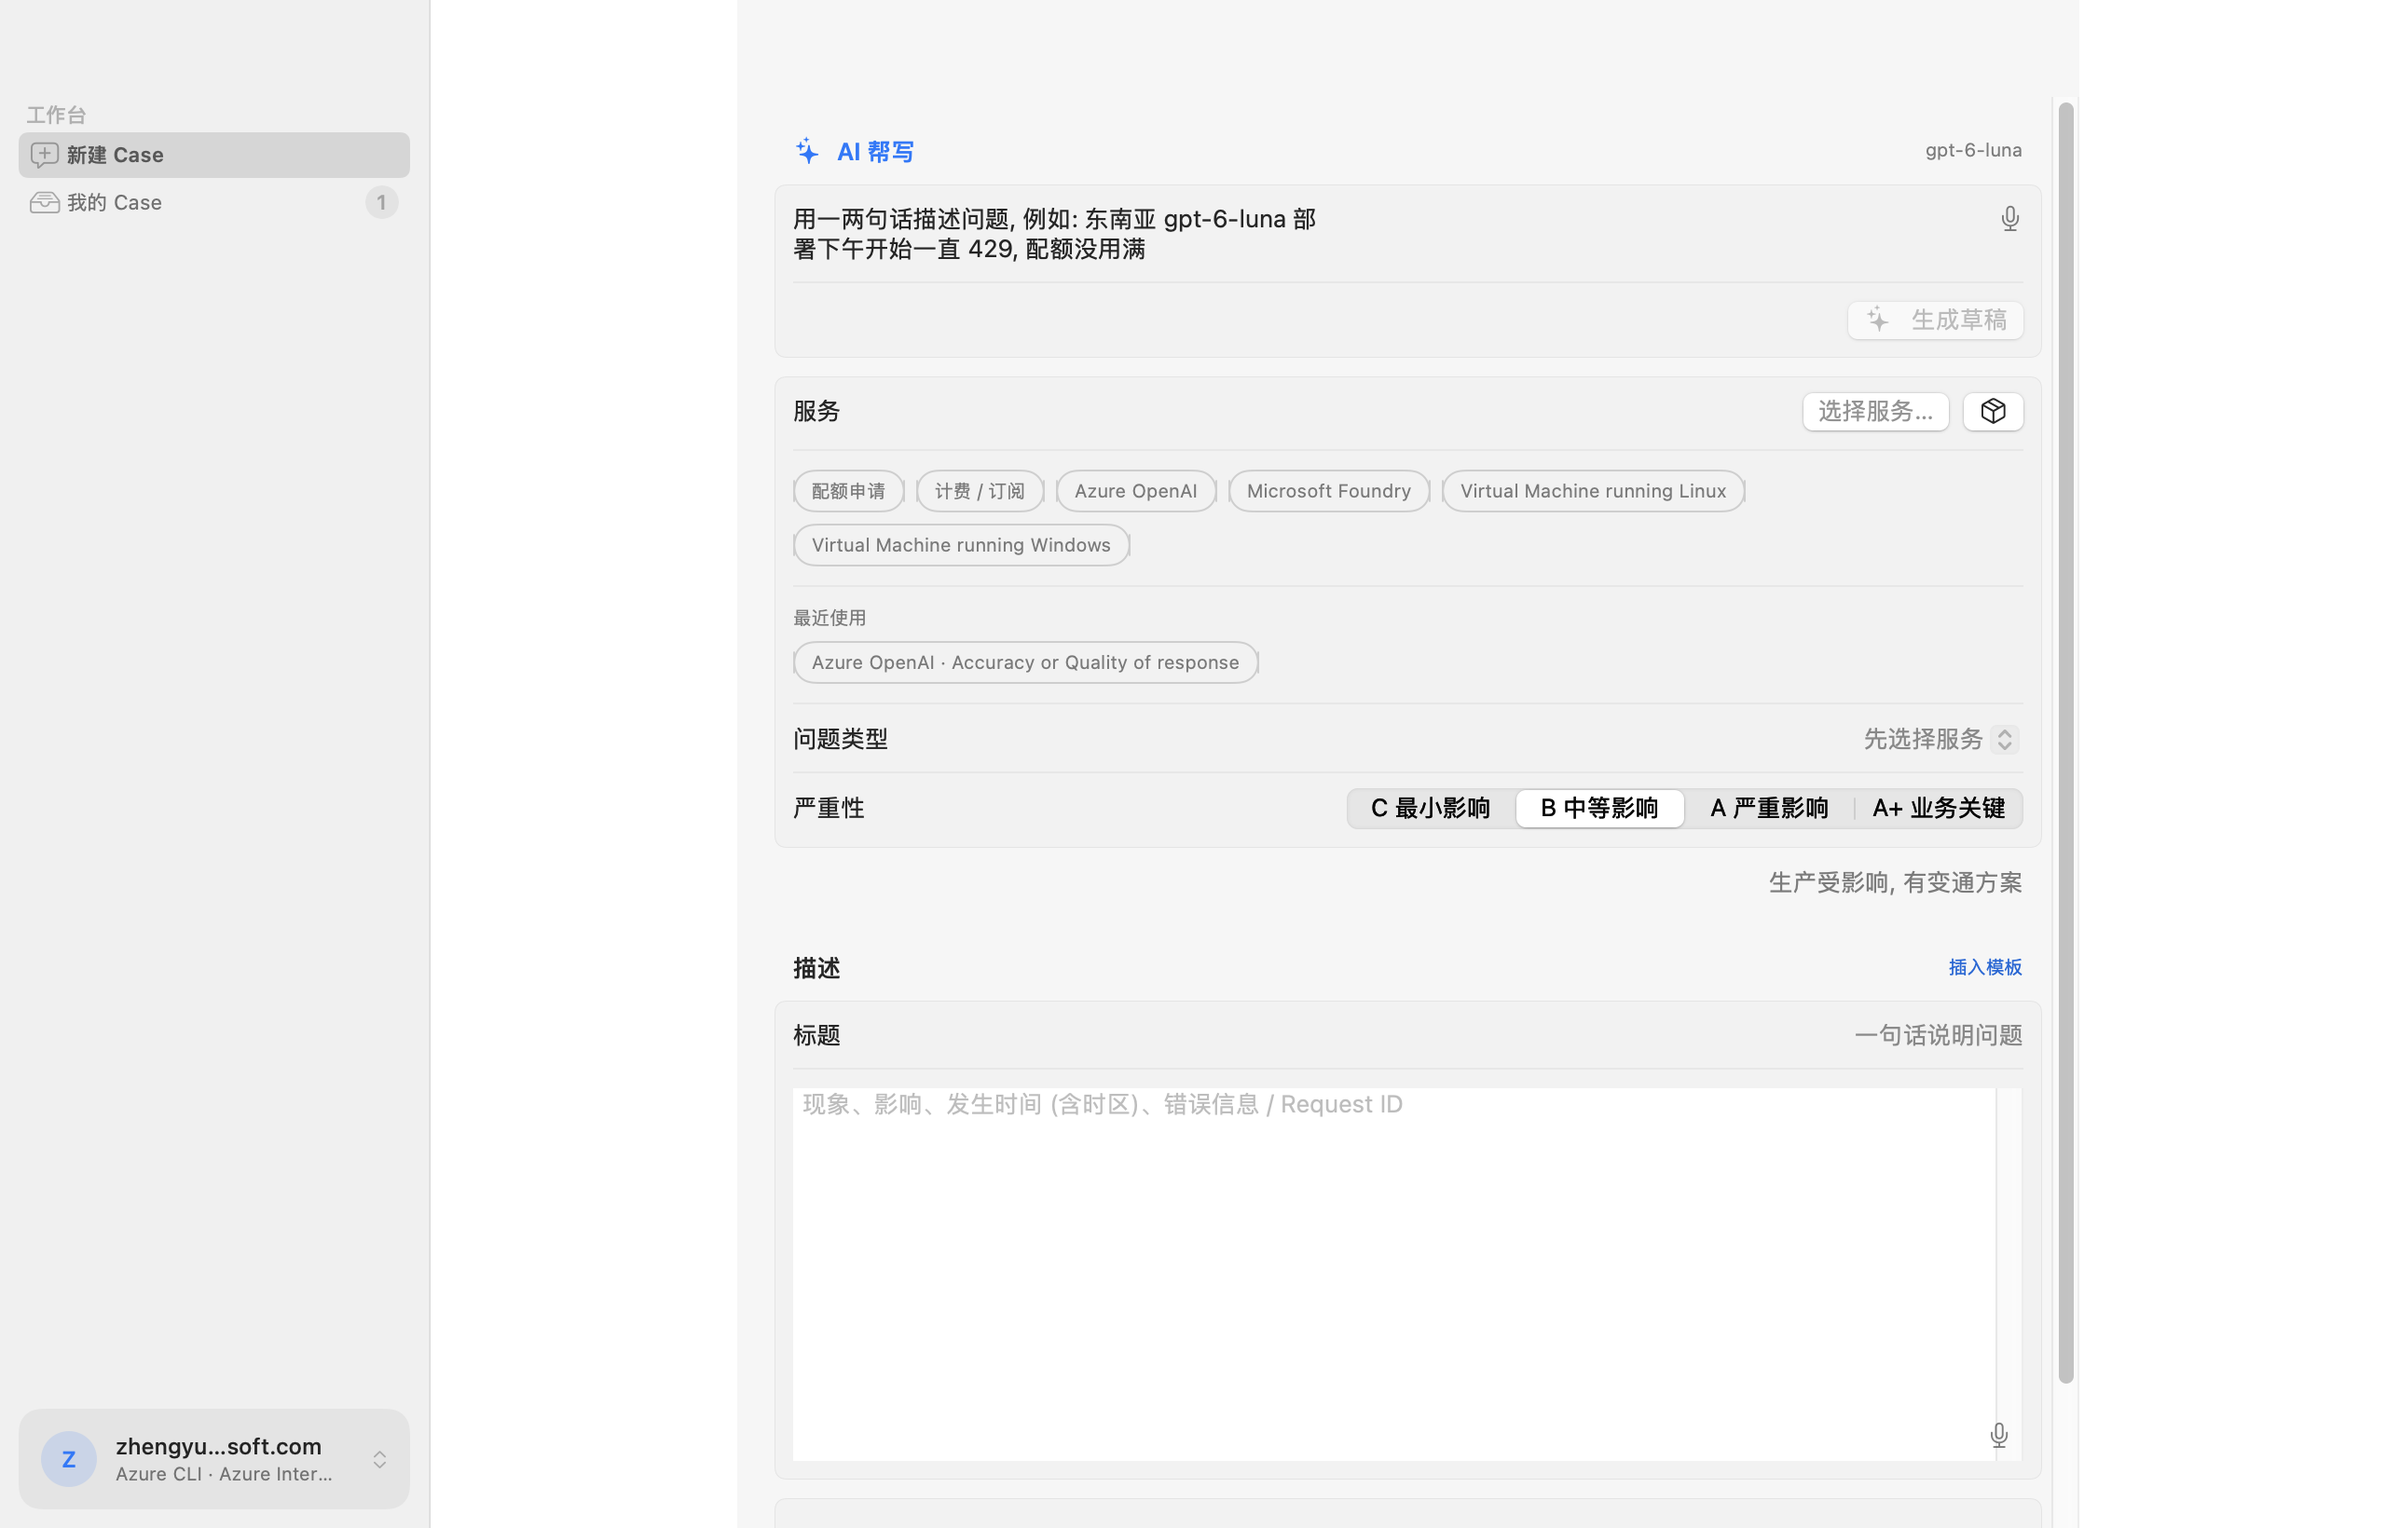
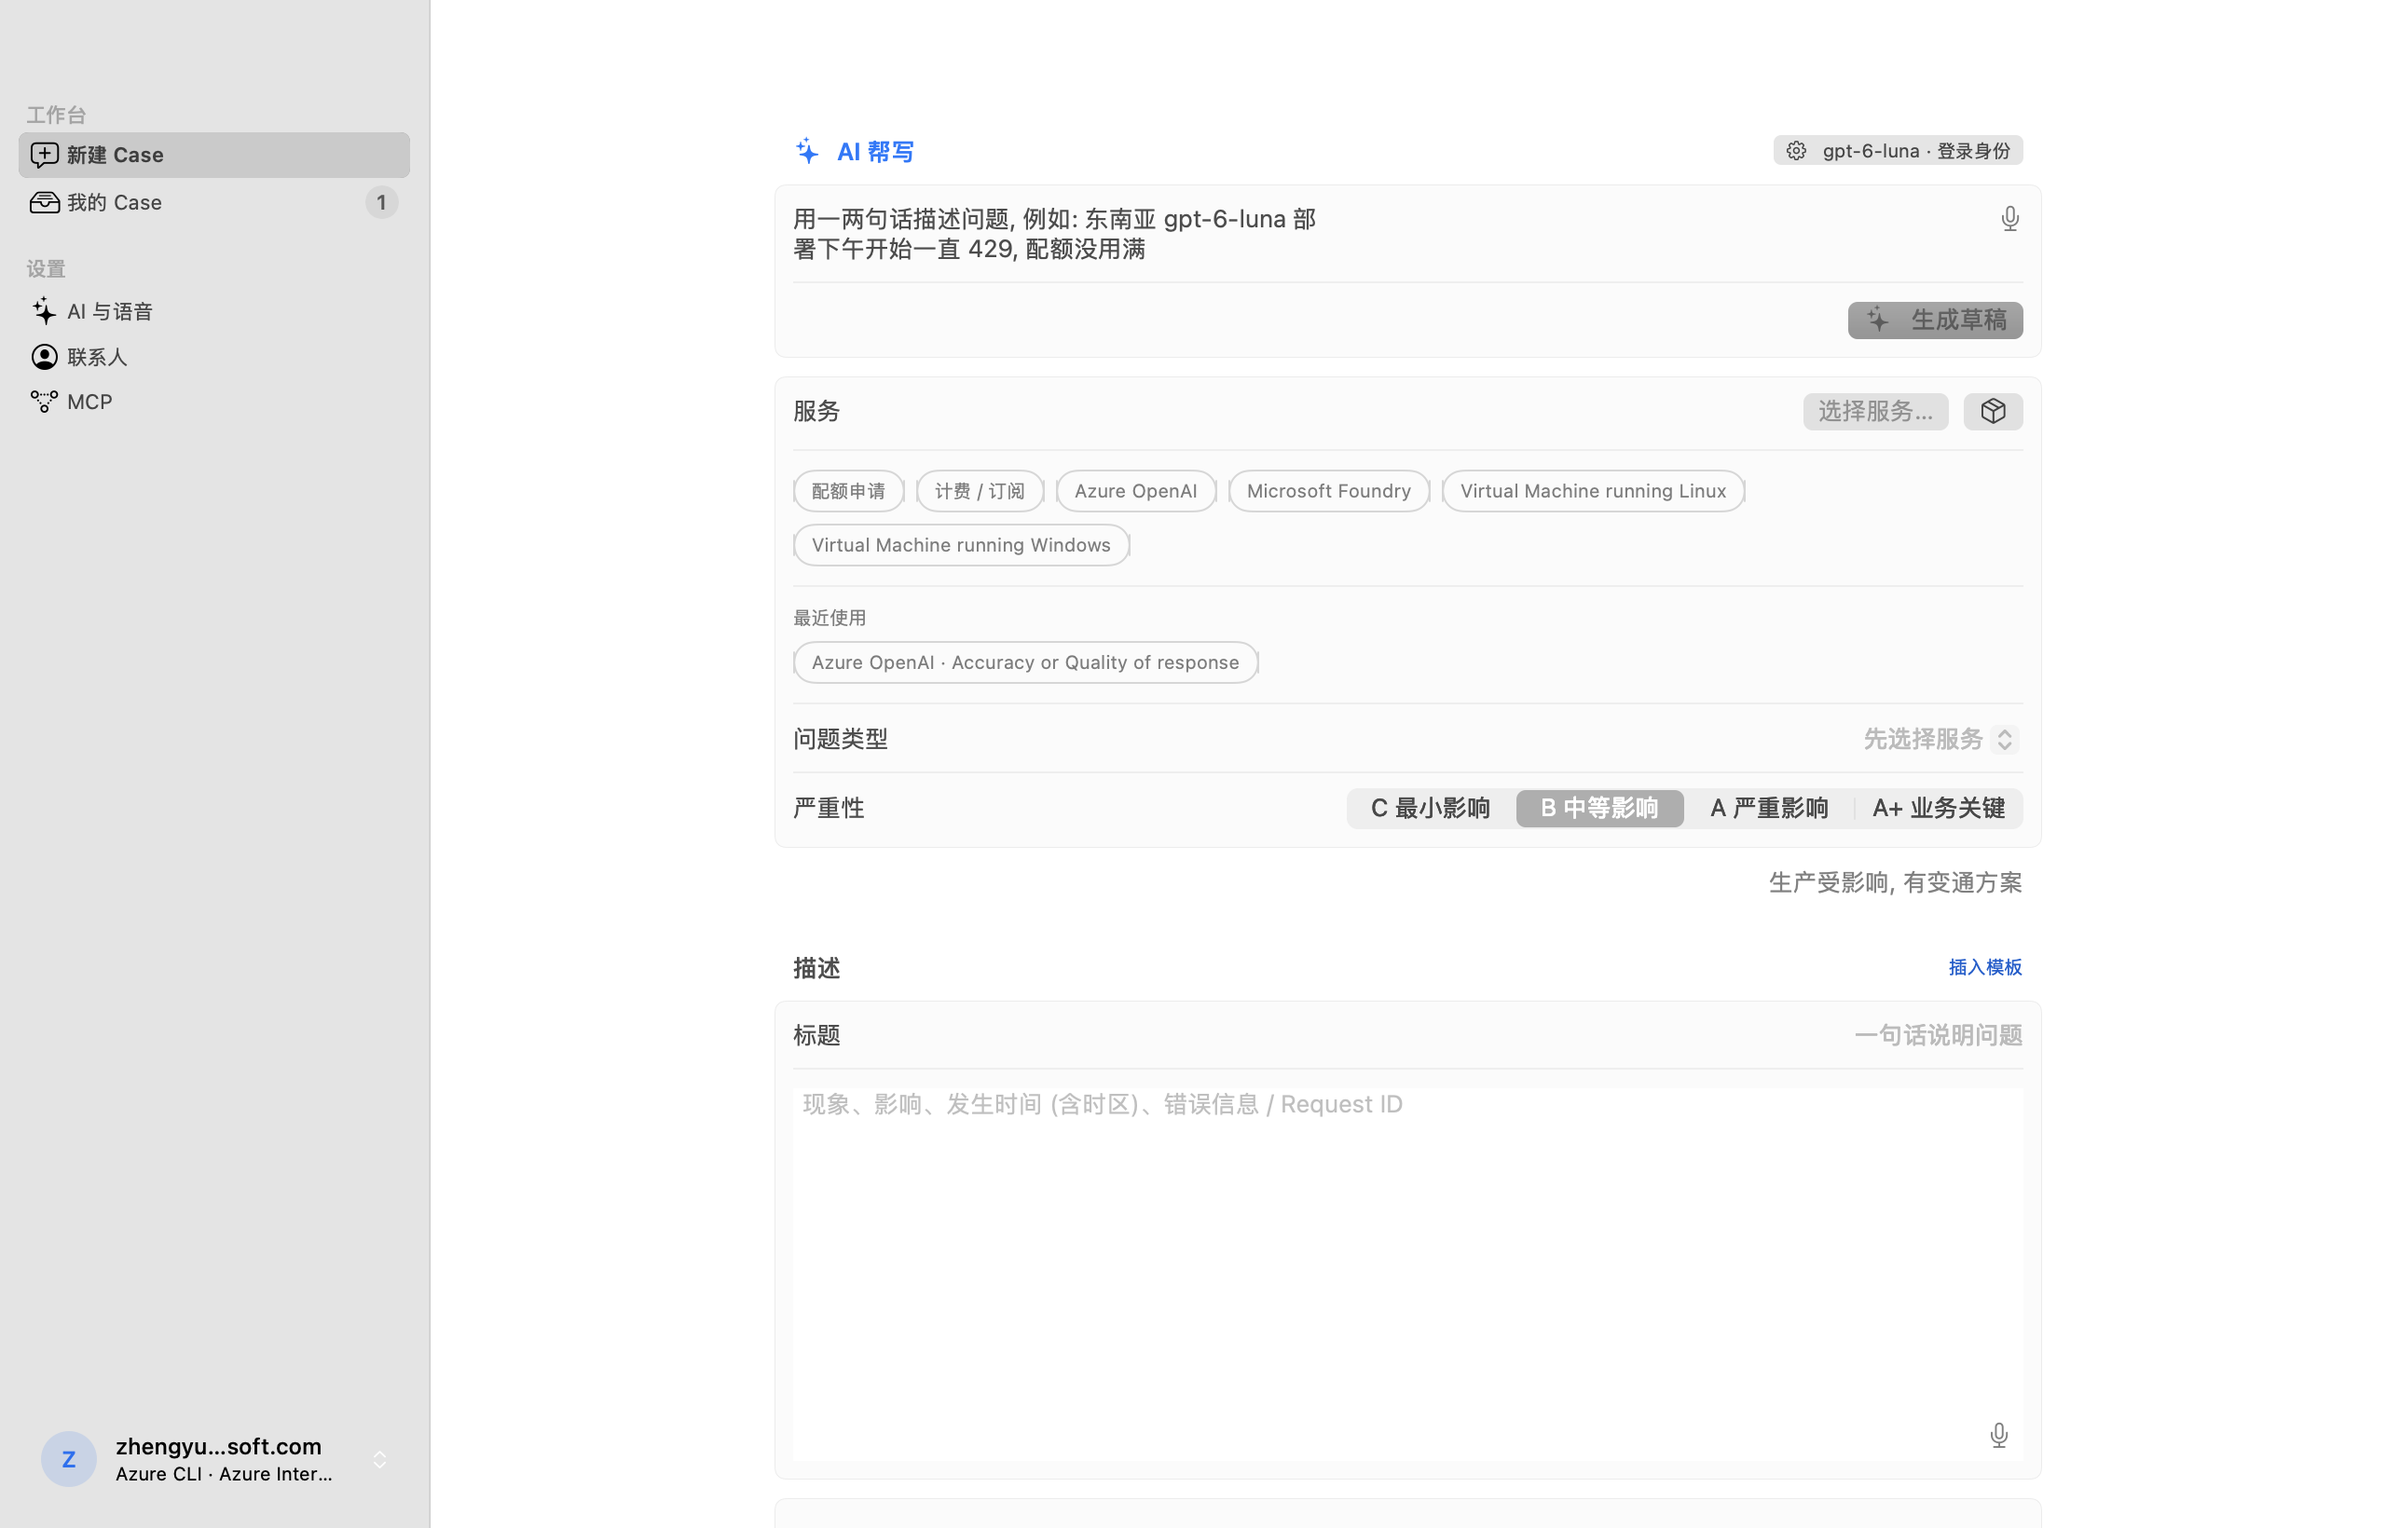
feat: v2.2.0 显眼的 AI/语音配置入口; 系统材质与 Liquid Glass

diff --git a/macos/Sources/CasePilot/CasePilotApp.swift b/macos/Sources/CasePilot/CasePilotApp.swift
@@ -11,8 +11,9 @@ struct CasePilotApp: App {
                 .environment(store)
                 .frame(minWidth: 1000, minHeight: 680)
                 .preferredColorScheme(.light)
+                .windowMaterial()
         }
-        .windowToolbarStyle(.unified)
+        .windowToolbarStyle(.unified(showsTitle: true))
         .defaultSize(width: 1280, height: 820)
         .commands {
             CommandGroup(replacing: .newItem) {}
@@ -22,11 +23,7 @@ struct CasePilotApp: App {
             }
         }
         Settings {
-            TabView {
-                ContactSettingsView().tabItem { Label("联系人", systemImage: "person.crop.circle") }
-                AISettingsView().tabItem { Label("AI 与语音", systemImage: "sparkles") }
-                MCPSettingsView().tabItem { Label("MCP", systemImage: "point.3.connected.trianglepath.dotted") }
-            }
+            SettingsRoot()
             .environment(store).preferredColorScheme(.light)
         }
     }
@@ -94,8 +91,14 @@ struct Sidebar: View {
                         .badge(store.openCount)
                         .tag(AppSection.history)
                 }
+                Section("设置") {
+                    SidebarSettingsLink(tab: .ai, title: "AI 与语音", symbol: "sparkles")
+                    SidebarSettingsLink(tab: .contact, title: "联系人", symbol: "person.crop.circle")
+                    SidebarSettingsLink(tab: .mcp, title: "MCP", symbol: "point.3.connected.trianglepath.dotted")
+                }
             }
             .listStyle(.sidebar)
+            .scrollContentBackground(.hidden)
             if let id = store.identity {
                 IdentityMenu {
                     HStack(spacing: 10) {
@@ -110,7 +113,7 @@ struct Sidebar: View {
                         Image(systemName: "chevron.up.chevron.down").font(.caption).foregroundStyle(.tertiary)
                     }
                     .padding(12)
-                    .background(.quaternary.opacity(0.5), in: RoundedRectangle(cornerRadius: 12))
+                    .glassCard(cornerRadius: 12)
                     .contentShape(RoundedRectangle(cornerRadius: 12))
                 }
                 .padding(10)
@@ -172,5 +175,37 @@ struct ScopeToolbar: ToolbarContent {
             }
             .frame(width: 300).help("订阅")
         }
+    }
+}
+
+struct SidebarSettingsLink: View {
+    let tab: SettingsTab, title: String, symbol: String
+    @Environment(\.openSettings) private var openSettings
+    var body: some View {
+        Button {
+            UserDefaults.standard.set(tab.rawValue, forKey: "settingsTab")
+            NotificationCenter.default.post(name: .selectSettingsTab, object: tab)
+            openSettings()
+        } label: { Label(title, systemImage: symbol) }
+        .buttonStyle(.plain)
+    }
+}
+
+struct SettingsRoot: View {
+    @State private var tab = SettingsTab(rawValue: UserDefaults.standard.string(forKey: "settingsTab") ?? "") ?? .ai
+    var body: some View {
+        TabView(selection: $tab) {
+            AISettingsView().tabItem { Label("AI 与语音", systemImage: "sparkles") }.tag(SettingsTab.ai)
+            ContactSettingsView().tabItem { Label("联系人", systemImage: "person.crop.circle") }.tag(SettingsTab.contact)
+            MCPSettingsView().tabItem { Label("MCP", systemImage: "point.3.connected.trianglepath.dotted") }.tag(SettingsTab.mcp)
+        }
+        .onReceive(NotificationCenter.default.publisher(for: .selectSettingsTab)) { if let t = $0.object as? SettingsTab { tab = t } }
+    }
+}
+
+extension View {
+    /// 窗口背景使用系统材质 (macOS 15+); 14 保持默认
+    @ViewBuilder func windowMaterial() -> some View {
+        if #available(macOS 15.0, *) { self.containerBackground(.thinMaterial, for: .window) } else { self }
     }
 }

diff --git a/macos/Sources/CasePilot/AIComposer.swift b/macos/Sources/CasePilot/AIComposer.swift
@@ -71,7 +71,8 @@ struct AIComposer: View {
             HStack {
                 if let status {
                     Label(status.text, systemImage: status.ok ? "checkmark.circle.fill" : "info.circle")
-                        .font(.caption).foregroundStyle(status.ok ? .green : .secondary)
+                        .font(.caption).foregroundStyle(status.ok ? .green : .secondary).lineLimit(3)
+                    if !status.ok && status.text.contains("AI 服务错误") { AISettingsButton(compact: true) }
                 }
                 Spacer()
                 if !questions.isEmpty {
@@ -87,7 +88,7 @@ struct AIComposer: View {
             HStack {
                 Label("AI 帮写", systemImage: "sparkles").foregroundStyle(.tint)
                 Spacer()
-                SettingsLink { Text(AIConfig.load().chatDeployment).font(.caption).foregroundStyle(.secondary) }.buttonStyle(.plain).help("AI 设置")
+                AISettingsButton()
             }
         }
     }
@@ -107,5 +108,25 @@ struct AIComposer: View {
                 : d.service == nil ? (false, "未能确定服务, 请手动选择")
                 : !d.questions.isEmpty ? (false, "已生成初稿, 回答下面的问题可让描述更完整") : (false, "请确认问题类型")
         } catch { status = (false, error.localizedDescription) }
+    }
+}
+
+/// 显眼的 AI 设置入口: 显示当前模型与认证方式, 点击直达 设置 → AI 与语音
+struct AISettingsButton: View {
+    var compact = false
+    @Environment(\.openSettings) private var openSettings
+    var body: some View {
+        let c = AIConfig.load()
+        let auth = SecretStore.get(.aoai) == nil ? "登录身份" : "API Key"
+        Button {
+            UserDefaults.standard.set(SettingsTab.ai.rawValue, forKey: "settingsTab")
+            NotificationCenter.default.post(name: .selectSettingsTab, object: SettingsTab.ai)
+            openSettings()
+        } label: {
+            Label(compact ? "配置 AI" : "\(c.chatDeployment) · \(auth)", systemImage: "gearshape")
+                .font(.caption)
+        }
+        .buttonStyle(.bordered).controlSize(.small)
+        .help("配置 AI 帮写与语音 (Endpoint / Key / 区域)")
     }
 }

diff --git a/macos/Sources/CasePilot/Components.swift b/macos/Sources/CasePilot/Components.swift
@@ -141,3 +141,18 @@ extension Date {
     }
     var full: String { formatted(.dateTime.year().month(.twoDigits).day(.twoDigits).hour().minute().locale(Locale(identifier: "zh_CN"))) }
 }
+
+/// Liquid Glass (macOS 26+), 低版本回退为系统材质; 仅用于浮层/强调控件, 不铺满整窗
+extension View {
+    @ViewBuilder func glassCard(cornerRadius: CGFloat = 16) -> some View {
+        if #available(macOS 26.0, *) {
+            self.glassEffect(.regular, in: RoundedRectangle(cornerRadius: cornerRadius))
+        } else {
+            self.background(.regularMaterial, in: RoundedRectangle(cornerRadius: cornerRadius))
+        }
+    }
+}
+
+/// 打开设置并跳到指定页
+enum SettingsTab: String { case contact, ai, mcp }
+extension Notification.Name { static let selectSettingsTab = Notification.Name("selectSettingsTab") }

diff --git a/macos/Sources/CasePilot/LoginView.swift b/macos/Sources/CasePilot/LoginView.swift
@@ -66,13 +66,12 @@ struct LoginView: View {
             }
             .padding(32)
             .frame(width: 460)
-            .background(.background, in: RoundedRectangle(cornerRadius: 24))
-            .overlay(RoundedRectangle(cornerRadius: 24).strokeBorder(.separator))
+            .glassCard(cornerRadius: 24)
             .shadow(color: .black.opacity(0.06), radius: 16, y: 6)
             Spacer()
         }
         .frame(maxWidth: .infinity, maxHeight: .infinity)
-        .background(Color(nsColor: .windowBackgroundColor))
+        .background(.background.secondary)
         .task {
             guard !autoTried else { return }
             autoTried = true

diff --git a/macos/Sources/CasePilot/CreateCaseView.swift b/macos/Sources/CasePilot/CreateCaseView.swift
@@ -131,6 +131,7 @@ struct CreateCaseView: View {
             }
         }
         .formStyle(.grouped)
+        .scrollContentBackground(.hidden)
         .frame(maxWidth: 720)
         .frame(maxWidth: .infinity)
         .navigationTitle("新建 Case")

diff --git a/README.md b/README.md
@@ -24,7 +24,7 @@
 点击左下角**身份卡**可随时切换 租户 / 订阅 (含租户级) / 认证方式。
 
 ## 功能
-- **AI 帮写** (v2.0): 一句话描述 (可语音) → AI 选择服务 / 问题类型 / 严重性并写好结构化描述; 信息不足时追问一轮。只从 Azure 真实目录中选择, 不编造。默认 westus3 `gpt-6-luna`, 可在 设置 → AI 与语音 修改 Endpoint / 部署 / **API Key** (Key 存钥匙串; 留空则用登录身份, 需 Cognitive Services OpenAI User 角色)
+- **AI 帮写** (v2.0): 一句话描述 (可语音) → AI 选择服务 / 问题类型 / 严重性并写好结构化描述; 信息不足时追问一轮。只从 Azure 真实目录中选择, 不编造。默认 westus3 `gpt-6-luna`, 可在侧边栏「设置 → AI 与语音」或 AI 帮写旁的模型按钮修改 Endpoint / 部署 / **API Key** (Key 存钥匙串; 留空则用登录身份, 需 Cognitive Services OpenAI User 角色)
 - **语音输入** (v2.0): 新建描述与补充信息均可录音转写, 支持 Azure OpenAI (`gpt-4o-mini-transcribe`) 或 Azure Speech (可填 **区域 + Speech Key**)
 - **支持计划**: 侧边栏显示 (如 Unified / ProDirect / Standard), 来源标注 (最近 Case 或订阅类型推断; Azure 无公开查询 API); 不支持 A/A+ 时提示
 - **新建 Case**: 选服务 → 问题类型 → 严重性 (C/B/A/A+) → 标题与描述 → 提交 (⌘↩)
@@ -41,7 +41,7 @@
 ```bash
 cd macos
 swift test                    # 单元测试
-./build_app.sh v2.1.0         # 产物: dist/CasePilot-v2.1.0-macOS-universal.zip
+./build_app.sh v2.2.0         # 产物: dist/CasePilot-v2.2.0-macOS-universal.zip
 ```
 
 ## MCP (Claude Desktop / VS Code / Copilot 等)

diff --git a/docs/UI_OPTIMIZATION_CHANGELOG.md b/docs/UI_OPTIMIZATION_CHANGELOG.md
@@ -7,3 +7,9 @@
 | #4 右键菜单 | 复制 Case 号 / 在 Portal 打开; 双击打开详情 | HistoryView.swift | 低 |
 | #5 快捷入口 | 常用 ≤6、最近使用 ≤3, 改为小标题样式 | CreateCaseView.swift | 低 |
 | #6 Key 配置 | AI/Speech Key (钥匙串)、Speech 区域 | SettingsView.swift, AI.swift, AIClient.swift, Keychain.swift | 中: 新增设置字段, 已兼容旧配置解码 (有测试) |
+
+# v2.2.0
+| 问题 | 修改 | 文件 |
+|---|---|---|
+| AI/语音配置入口难找 | 侧边栏新增「设置」分组 (AI 与语音 / 联系人 / MCP) 直达对应页; AI 帮写标题旁显示「模型 · 认证方式」按钮; AI 报错时出现「配置 AI」按钮; 设置默认打开 AI 页 | CasePilotApp.swift, AIComposer.swift |
+| 缺少 macOS 玻璃质感 | 窗口背景系统材质 (macOS 15+), 侧边栏/表单透出背景; 身份卡与登录卡使用 Liquid Glass (macOS 26+, 低版本回退 regularMaterial)。不对每张卡片铺玻璃, 保证可读性 | Components.swift, CasePilotApp.swift, CreateCaseView.swift, LoginView.swift |

diff --git a/docs/UI_VERIFICATION.md b/docs/UI_VERIFICATION.md
@@ -4,3 +4,5 @@
 - 截图: 前后对比 `docs/ui-review/before|after/` (真实窗口 cacheDisplay 截图, 1280×820, 浅色)
 - 回归: 导航、AI 帮写、提交按钮状态、Inspector 详情加载已在截图中确认
 - **未验证**: 右键菜单与双击 (无自动化点击); 设置页 Key 实际调用 (你的 AI 资源均禁用本地认证, 只能验证错误 Key 返回 401); 深色模式 (按要求固定浅色)
+
+- v2.2.0 截图为离屏渲染 (cacheDisplay), **无法呈现材质/玻璃透明效果**; 玻璃效果需在真实窗口中目视确认 (未验证)。
